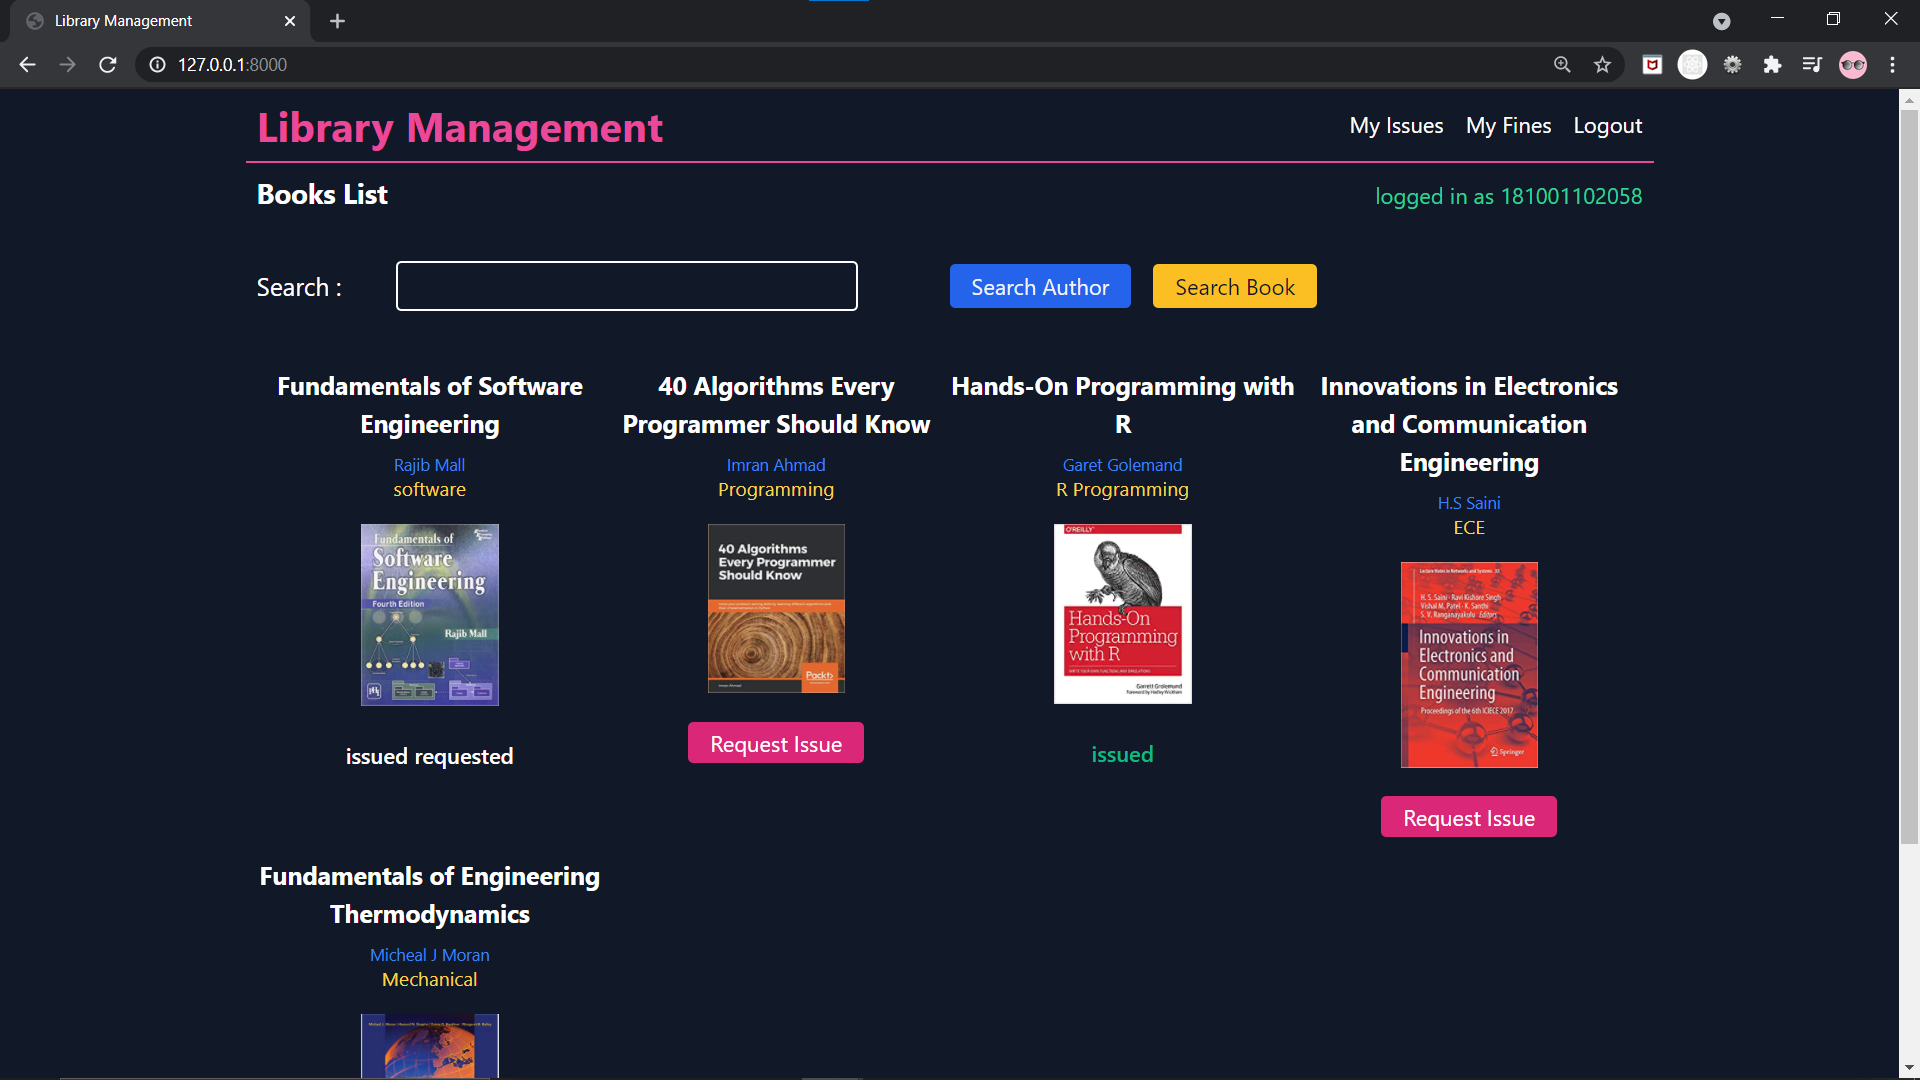
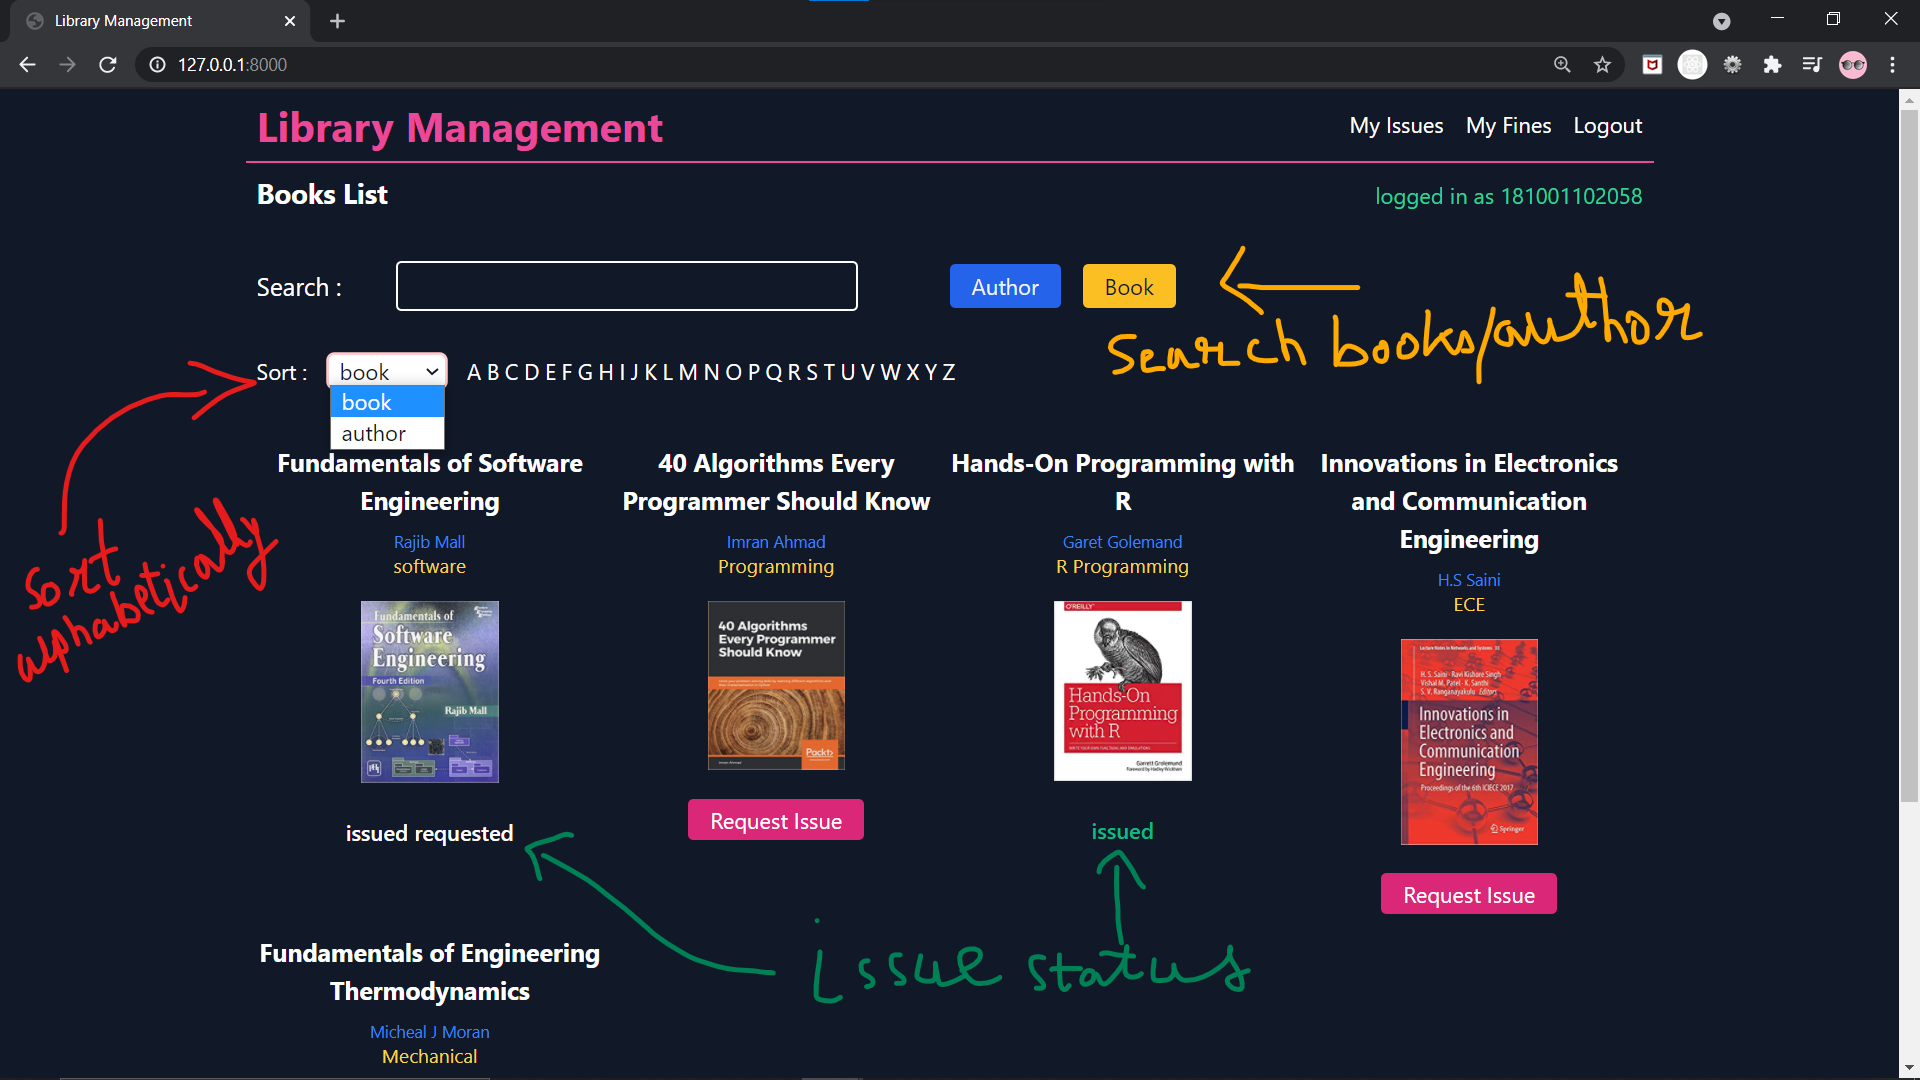
env  , readme , alphabetically sorting 🎉

diff --git a/templates/library/home.html b/templates/library/home.html
@@ -19,17 +19,59 @@
       class="text-white hover:shadow-md rounded bg-blue-600 px-4 py-1 text-gray-100"
       name="author"
     >
-      Search Author
+      Author
     </button>
     <button
       class="hover:shadow-md bg-yellow-400 text-gray-900 rounded px-4 py-1"
       name="book"
     >
-      Search Book
+      Book
     </button>
   </div>
 </form>
-
+<!-- sorting alphabetically -->
+<form
+  class="flex flex-col sm:flex-row sm:space-x-4 mt-8 sm:items-center"
+  action="/sort/"
+>
+  <h3>Sort :</h3>
+  <select
+    class="rounded focus:outline-none focus:ring-2 focus:ring-red-200 focus:border-red-500 text-base pr-3 pl-1 text-gray-900"
+    name="sort_type"
+    id="sort_type"
+  >
+    <option value="book">book</option>
+    <option value="author">author</option>
+  </select>
+  <ul id="sortable" class="flex flex-wrap space-x-1">
+    <li><button name="sort" value="A">A</button></li>
+    <li><button name="sort" value="B">B</button></li>
+    <li><button name="sort" value="C">C</button></li>
+    <li><button name="sort" value="D">D</button></li>
+    <li><button name="sort" value="E">E</button></li>
+    <li><button name="sort" value="F">F</button></li>
+    <li><button name="sort" value="G">G</button></li>
+    <li><button name="sort" value="H">H</button></li>
+    <li><button name="sort" value="I">I</button></li>
+    <li><button name="sort" value="J">J</button></li>
+    <li><button name="sort" value="K">K</button></li>
+    <li><button name="sort" value="L">L</button></li>
+    <li><button name="sort" value="M">M</button></li>
+    <li><button name="sort" value="N">N</button></li>
+    <li><button name="sort" value="O">O</button></li>
+    <li><button name="sort" value="P">P</button></li>
+    <li><button name="sort" value="Q">Q</button></li>
+    <li><button name="sort" value="R">R</button></li>
+    <li><button name="sort" value="S">S</button></li>
+    <li><button name="sort" value="T">T</button></li>
+    <li><button name="sort" value="U">U</button></li>
+    <li><button name="sort" value="V">V</button></li>
+    <li><button name="sort" value="W">W</button></li>
+    <li><button name="sort" value="X">X</button></li>
+    <li><button name="sort" value="Y">Y</button></li>
+    <li><button name="sort" value="Z">Z</button></li>
+  </ul>
+</form>
 <!-- all books -->
 <ul
   class="mt-10 md:px-4 lg:px-12 xl:px-0 grid grid-cols-1 md:grid-cols-3 xl:grid-cols-4"
@@ -149,4 +191,13 @@
   <h2>No Books Found</h2>
   {% endfor %}
 </ul>
-{% endif %} {% endblock content %}
+{% endif %}
+<script>
+  const options = document.querySelectorAll("#sort_type option");
+  options.forEach((option) => {
+    if (option.textContent === "{{selected | escapejs}}") {
+      option.selected = true;
+    }
+  });
+</script>
+{% endblock content %}

diff --git a/templates/base.html b/templates/base.html
@@ -14,6 +14,12 @@
         transform: scale(1.1);
         transition: 0.2s ease-in-out;
       }
+      li button:hover {
+        transform: scale(1.3) translateY(-2px);
+        text-decoration: underline;
+
+        transition: 0.5s ease-in-out;
+      }
       .success {
         color: rgb(0, 226, 132);
       }

diff --git a/library/views.py b/library/views.py
@@ -17,7 +17,21 @@ from core import settings
 def allbooks(request):
     requestedbooks,issuedbooks=getmybooks(request.user)
     allbooks=Book.objects.all()
+    
     return render(request,'library/home.html',{'books':allbooks,'issuedbooks':issuedbooks,'requestedbooks':requestedbooks})
+
+
+def sort(request):
+    sort_type=request.GET.get('sort_type')
+    sort_by=request.GET.get('sort')
+    requestedbooks,issuedbooks=getmybooks(request.user)
+    if 'author' in sort_type:
+        author_results=Author.objects.filter(name__startswith=sort_by)
+        return render(request,'library/home.html',{'author_results':author_results,'issuedbooks':issuedbooks,'requestedbooks':requestedbooks,'selected':'author'})
+    else:
+        books_results=Book.objects.filter(name__startswith=sort_by)
+        return render(request,'library/home.html',{'books_results':books_results,'issuedbooks':issuedbooks,'requestedbooks':requestedbooks,'selected':'book'})
+
 
 def search(request):
     search_query=request.GET.get('search-query')
@@ -184,17 +198,17 @@ def payfine(request,fineID):
     order_currency = 'INR'
     order_receipt = fine.order_id
     
-    print(order_amount)
+    
     razorpay_order=razorpay_client.order.create(dict(amount=order_amount, currency=order_currency, receipt=order_receipt, ))
     print(razorpay_order)
-    fine.razorpay_order_id = razorpay_order['id']
-    fine.save()
+    
+    
     return render(request,'library/payfine.html',
     {'amount':order_amount,'razor_id':settings.RAZORPAY_KEY_ID,
     'reciept':razorpay_order['id'],
     'amount_displayed':order_amount / 100,
     'address':'a custom address',
-    'fine':fine,
+    'fine':fine, 
     })
 
 
@@ -215,7 +229,9 @@ def pay_status(request,fineID):
                 fine.datetime_of_payment=timezone.now()
                 fine.razorpay_payment_id=request.POST['razorpay_payment_id']
                 fine.razorpay_signature=request.POST['razorpay_signature']
+                fine.razorpay_order_id = request.POST['razorpay_order_id']
                 fine.save()
+                
             messages.success(request,'Payment Succesfull')
         except:
             messages.error(request,'Payment Failure')

diff --git a/core/settings.py b/core/settings.py
@@ -12,6 +12,7 @@ https://docs.djangoproject.com/en/3.1/ref/settings/
 
 from pathlib import Path
 import os
+from dotenv import load_dotenv
 
 # Build paths inside the project like this: BASE_DIR / 'subdir'.
 BASE_DIR = Path(__file__).resolve().parent.parent
@@ -21,7 +22,9 @@ BASE_DIR = Path(__file__).resolve().parent.parent
 # See https://docs.djangoproject.com/en/3.1/howto/deployment/checklist/
 
 # SECURITY WARNING: keep the secret key used in production secret!
-SECRET_KEY = '=an0opy74a%d(plj5e@6-gtc=d&(%t7(teo3uoy&$((#w67_m+'
+load_dotenv()
+
+SECRET_KEY = os.getenv("SECRET_KEY")
 
 # SECURITY WARNING: don't run with debug turned on in production!
 DEBUG = True
@@ -111,7 +114,7 @@ AUTH_PASSWORD_VALIDATORS = [
 
 LANGUAGE_CODE = 'en-us'
 
-TIME_ZONE = 'UTC'
+TIME_ZONE = 'Asia/Kolkata'
 
 USE_I18N = True
 
@@ -133,5 +136,5 @@ STATICFILES_DIRS=[
     os.path.join(BASE_DIR,'static')
 ]
 
-RAZORPAY_KEY_ID='rzp_test_CWLIScpEnbRpw7'
-RAZORPAY_KEY_SECRET='fEVERgb1O7TavSEvPeJdmBIG'
+RAZORPAY_KEY_ID=os.getenv("RAZORPAY_KEY_ID")
+RAZORPAY_KEY_SECRET=os.getenv("RAZORPAY_KEY_SECRET")

diff --git a/library/urls.py b/library/urls.py
@@ -1,8 +1,9 @@
 from django.urls import path
-from .views import allbooks,search,addbook,deletebook,issuerequest,myissues,issue_book,return_book,requestedissues,myfines,allfines,deletefine,payfine,pay_status
+from .views import allbooks,search,addbook,deletebook,issuerequest,myissues,issue_book,return_book,requestedissues,myfines,allfines,deletefine,payfine,pay_status,sort
 urlpatterns = [
     path('',allbooks,name='home'),
     path('search/',search),
+    path('sort/',sort),
     path('addbook/',addbook),
     path('deletebook/<int:bookID>/',deletebook),
     path('request-book-issue/<int:bookID>/',issuerequest),

diff --git a/library/migrations/0007_auto_20210417_0835.py b/library/migrations/0007_auto_20210417_0835.py
@@ -1,0 +1,23 @@
+# Generated by Django 3.1.7 on 2021-04-17 03:05
+
+from django.db import migrations, models
+
+
+class Migration(migrations.Migration):
+
+    dependencies = [
+        ('library', '0006_auto_20210415_1730'),
+    ]
+
+    operations = [
+        migrations.AlterField(
+            model_name='fine',
+            name='order_id',
+            field=models.CharField(blank=True, default=None, max_length=500, null=True, unique=True),
+        ),
+    ]
+
+# '=an0opy74a%d(plj5e@6-gtc=d&(%t7(teo3uoy&$((#w67_m+'
+
+# 'rzp_test_CWLIScpEnbRpw7'
+# 'fEVERgb1O7TavSEvPeJdmBIG'

diff --git a/library/utilities.py b/library/utilities.py
@@ -13,8 +13,11 @@ def calcFine(issue):
         if(today>lastdate):
             diff=today-lastdate
             fine,created=Fine.objects.get_or_create(issue=issue,student=issue.student)
-            fine.amount=diff.days*10
-            fine.save()
+            if not fine.paid:
+                fine.amount=diff.days*10
+                fine.save()
+            else:
+                print('fine paid')
         else:
             return 'no fine'
     else:

diff --git a/Readme.md b/Readme.md
@@ -1,12 +1,13 @@
 # Library Management System
 
-This is a simple library management system built for Major Project 2021
+This is a simple library management system built for Major Project 2021 by Abhik Bhattacharya (id : 181001102058) & Saikat Shee (id : 181001102053 )
 
 <!-- ### It is deployed [here](https://abhik-b.github.io/pomodro-timer/) -->
 
 This project is built with :
 
-![HTML5](https://www.w3.org/html/logo/downloads/HTML5_Logo_64.png) , ![CSS3](https://upload.wikimedia.org/wikipedia/commons/thumb/d/d5/CSS3_logo_and_wordmark.svg/48px-CSS3_logo_and_wordmark.svg.png) , ![Vanilla JS](https://upload.wikimedia.org/wikipedia/commons/thumb/9/99/Unofficial_JavaScript_logo_2.svg/64px-Unofficial_JavaScript_logo_2.svg.png) , ![Python](https://www.quintagroup.com/++theme++quintagroup-theme/images/logo_python_section.png) , ![Django](https://www.quintagroup.com/++theme++quintagroup-theme/images/logo_django_section.png)
+![HTML5](https://www.w3.org/html/logo/downloads/HTML5_Logo_64.png) , ![CSS3](https://upload.wikimedia.org/wikipedia/commons/thumb/d/d5/CSS3_logo_and_wordmark.svg/48px-CSS3_logo_and_wordmark.svg.png) , ![Vanilla JS](https://upload.wikimedia.org/wikipedia/commons/thumb/9/99/Unofficial_JavaScript_logo_2.svg/64px-Unofficial_JavaScript_logo_2.svg.png) , ![Python](https://www.quintagroup.com/++theme++quintagroup-theme/images/logo_python_section.png) , ![Django](https://www.quintagroup.com/++theme++quintagroup-theme/images/logo_django_section.png) ,
+<img alt="Tailwind CSS" width="350" src="https://refactoringui.nyc3.cdn.digitaloceanspaces.com/tailwind-logo.svg" />
 
 ---
 
@@ -16,15 +17,26 @@ This project is built with :
 
 1. see all the books in homepage
 2. search books based on author or name of the book or category of the book
+3. sort books or author alphabetically
 
 ##### Student can
 
 1.  login / signup ,
 2.  can request book
+3.  see their own issues and filter them based on :
 
-3.  see their own issues and filter them based on requested issues , issued books or all of them together
+    - requested issues ,
+    - issued books or
+    - all of them together
+
 4.  check their own fines
-5.  can see the days remaining to return a particular book or the number of days passed the return date of a particular book in the my fines page
+5.  can see
+
+    - the days remaining to return a particular book
+      **or**
+    - the number of days passed the return date of a particular book in the my fines page
+
+6.  Pay their fines online (powered by RazorPay)
 
 ##### Admin can
 
@@ -41,15 +53,18 @@ This project is built with :
 
 3.  accept a issue :
 
-    - either from the dashboard where admin has to manually select return date
-    - or from the Issue requests page where return date is automatically calculated
+    - from the dashboard where admin has to manually select return date
+      **or**
+    - from the Issue requests page where return date is automatically calculated
 
 4.  add , delete search books and filter books based on author
 5.  add , delete , search author
-6.  calculate fine by clicking a button , create, delete fine ,search fines for studentid
-7.  search , modify,add,delete students , filter them based on department and check all fines and issues of that student
-8.  can see the last-login , date joined & the student associated to a particular user
-9.  can change password for any user
+6.  calculate fine by clicking a button ,
+7.  create, delete fine ,search fines for studentid
+8.  toggle fine paid status (if paid in cash)
+9.  search ,modify,add,delete students , filter them based on department and check all fines and issues of that student
+10. can see the last-login , date joined & the student associated to a particular user
+11. can change password for any user
 
 ##### More ...
 
@@ -96,8 +111,60 @@ We run a for loop and pass all the issues to this calculate fine function. Then:
 - Whenever admin clicks on "_Calculate Fine_" button
 - Whenever a student opens his "_My Fines_" page
 
----
+**Payment of Fines**
+
+- when a student clicks on pay button (in myfines page)
+- we create a razorpay order with a dict containing fine amount (coverted to int and multiplied by 100 because razorpay wants in paisa) , order_id, currency
+- then we send the user to the payfines page (payfines.html) with the amount (in paisa ) , razorpay key id, razorpay order id & amount (which should be displayed)
+- user chooses proceed to payment online , selects paymode (Netbanking , Card , Wallet etc.) and pays the amount
+- we verify the payment status whether success or failure
+- then payment is (successfull/failure) message is shown on myfine page with (paid status / pay button) beside that fine
 
 ## Screenshots
 
-_Not Added Yet_
+- Signup Page
+  ![login](./screenshots/signup.png)
+- Login Page
+  ![login](./screenshots/login.png)
+- If Student ID already signed up
+  ![signup](./screenshots/signup-same-id.png)
+
+- Home Page for student
+  ![homepage](./screenshots/homepage-student.png)
+- Search Book
+  ![search-book](./screenshots/search-book.png)
+- Search Author
+  ![search-author](./screenshots/search-author.png)
+
+- My Issues
+  ![myissues](./screenshots/myissues.png)
+- My Fines
+  ![myfines](./screenshots/myfines.png)
+- Confirm Payment
+  ![paymentmode](./screenshots/confirmpayment.png)
+- Choose Payment Modes
+  ![paymentmode](./screenshots/choospaymode.png)
+- Pay Success
+  ![paymentmode](./screenshots/paysuccess.png)
+
+- Admin Dashboard
+  ![admin](./screenshots/admin-dashboard-home.png)
+
+- All Books (Admin)
+  ![allbooks](./screenshots/allbooks.png)
+
+- All issues , can be filtered ,searched (Admin)
+  ![allissues](./screenshots/all-issues.png)
+- Requested Issues (Admin)
+  ![allissues](./screenshots/issue-requests.png)
+
+- All fines , can be filtered ,searched (Admin)
+  ![allfines](./screenshots/allfines.png)
+
+- All Students , can be filtered ,searched (Admin)
+  ![allstudents](./screenshots/all-students.png)
+- Student Details (Admin)
+  ![student-details](./screenshots/student-details.png)
+- User Details (Admin)
+  ![student-details](./screenshots/user-details.png)
+  19
